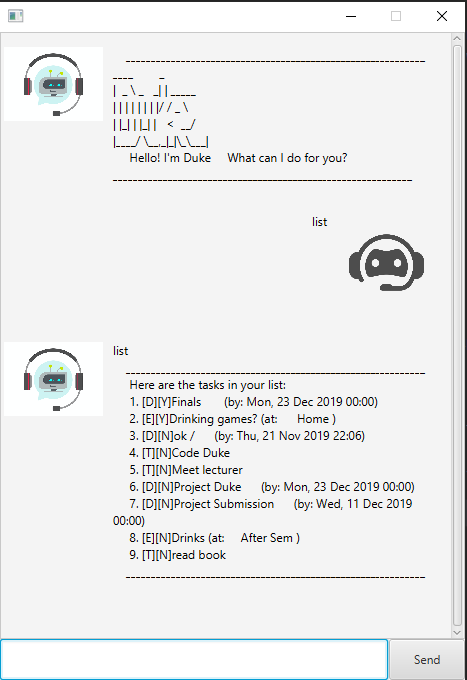
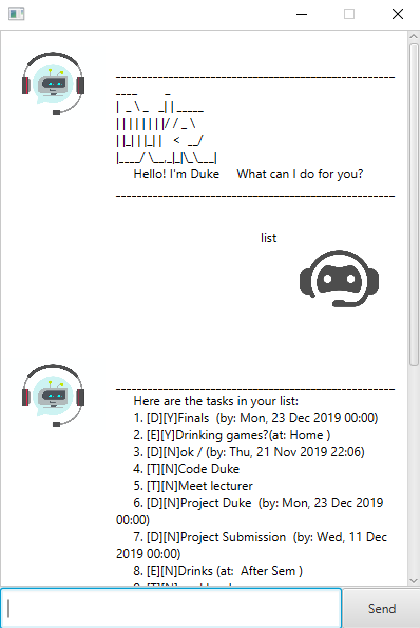
Commit new JavaFX Features

diff --git a/src/main/java/Parser/Parser.java b/src/main/java/Parser/Parser.java
@@ -107,6 +107,9 @@ public class Parser {
             return new addFindCommand(tmp[1]);
         }
         catch (ArrayIndexOutOfBoundsException e){
+            System.out.println(ui.getLine());
+            System.out.println("   Search command cannot be empty, Please enter something after the space after, find ");
+            System.out.println(ui.getLine());
             throw new DukeException("     Search command cannot be empty");
         }
     }
@@ -120,15 +123,18 @@ public class Parser {
     private static Command list(String inputs, TaskList tasklist) throws DukeException{
         try {
             if(tasklist.getSize() == 0){
+                ui.Line();
+                System.out.println("     ☹ OOPS!!! The list is empty.");
+                ui.Line();
                 throw new DukeException("     ☹ OOPS!!! The list is empty.");
             }
 
             return new addListCommand(inputs);
         }
         catch (DukeException e){
-//            ui.Line();
-//            System.out.println("     ☹ OOPS!!! The list is empty.");
-//            ui.Line();
+            ui.Line();
+            System.out.println("     ☹ OOPS!!! The list is empty.");
+            ui.Line();
             throw new DukeException("     ☹ OOPS!!! The list is empty.");
         }
     }
@@ -158,10 +164,11 @@ public class Parser {
         }
         try {
             if(inputs.substring(inputs.indexOf("delete")).length() == 6){
+//                System.out.println("delete");
                 throw new DukeEmptyExceptions("delete");
             }
             if((inputs.substring(inputs.indexOf("delete")+7, inputs.length())).trim().equals("")){
-                System.out.println("GOT HERE");
+
                 throw new DukeEmptyExceptions("delete");
             }
             int t = Integer.parseInt((inputs.substring(inputs.indexOf("delete")+7).trim()));
@@ -178,9 +185,15 @@ public class Parser {
         } catch (DukeEmptyExceptions e){
             throw new DukeEmptyExceptions("delete");
         } catch (NumberFormatException e){
+            ui.Line();
+            System.out.println("     ☹ OOPS!!! The task number must be a numerical value.");
+            ui.Line();
             throw new NumberFormatException("     ☹ OOPS!!! The task number must be a numerical value.");
 
         } catch (DukeOutOfBoundsException e){
+            ui.Line();
+            System.out.println("     ☹ OOPS!!! The task number must be within range.");
+            ui.Line();
             throw new DukeOutOfBoundsException("     ☹ OOPS!!! The task number must be within range.");
         }
     }
@@ -200,7 +213,7 @@ public class Parser {
 //                System.out.println(inputs[i]);
 //                description += " " + inputs[i];
 //            }
-        System.out.println("what is inputs : " + inputs);
+
         try {
             if(inputs.substring(inputs.indexOf("todo")).length() == 4){
                 throw new DukeEmptyExceptions("todo");
@@ -215,15 +228,20 @@ public class Parser {
 //            throw new DukeEmptyExceptions(e.getMessage());
             throw new DukeEmptyExceptions("todo");
         } catch (NumberFormatException e){
+            ui.Line();
+            System.out.println("     ☹ OOPS!!! The task number must be a numerical value.");
+            ui.Line();
 //            System.out.println("     ☹ OOPS!!! The task number must be a numerical value.");
 //            throw new NumberFormatException("     ☹ OOPS!!! The task number must be a numerical value.");
             throw new NumberFormatException("     ☹ OOPS!!! The task number must be a numerical value.");
 
         } catch (Exception e){
-            System.out.println("did i reach here all the time");
+//            System.out.println("did i reach here all the time");
 
 //            throw new DukeException("     Caught an Exception ");
-//            System.out.println("     Caught an Exception ");
+            ui.Line();
+            System.out.println("     Caught an Exception ");
+            ui.Line();
             return new invalidCommand("     Caught an Exception ");
 
         }
@@ -256,6 +274,7 @@ public class Parser {
         try {
             if(inputs.substring(inputs.indexOf("done")).length() == 4
                     || inputs.substring(inputs.indexOf("done")+5, inputs.length()).trim().equals("")){
+                System.out.println("done");
                 throw new DukeEmptyExceptions("done");
             }
             if(tmp.equals("")){
@@ -266,20 +285,30 @@ public class Parser {
 //                throw new DukeOutOfBoundsException("done");
 //            }
             if(storeTaskNo > tasklist.getSize() || storeTaskNo > t || storeTaskNo == 0 || t > tasklist.getSize()) {
+                ui.Line();
+                System.out.println("     ☹ OOPS!!!  The task number must be within range.");
                 throw new DukeOutOfBoundsException("     ☹ OOPS!!!  The task number must be within range.");
             }
             if(parsed(inputs)[1].toString()==null){
 //                throw new NumberFormatException();
+                ui.Line();
+                System.out.println("     ☹ OOPS!!! The task number must be a numerical value.");
+                ui.Line();
                 throw new NumberFormatException("     ☹ OOPS!!! The task number must be a numerical value.");
             }
             return new addDoneCommand(storeTaskNo-1);
         }
         catch (NumberFormatException e){
             ui.Line();
+            System.out.println("     ☹ OOPS!!! The task number must be a numerical value.");
+            ui.Line();
             throw new NumberFormatException("     ☹ OOPS!!! The task number must be a numerical value.");
-            //ui.Line();
+//            ui.Line();
         }
         catch (DukeOutOfBoundsException e){
+            ui.Line();
+            System.out.println("     ☹ OOPS!!! The task number must be within range.");
+            ui.Line();
             throw new DukeOutOfBoundsException("     ☹ OOPS!!! The task number must be within range.");
 
         }catch (DukeEmptyExceptions e){
@@ -308,10 +337,16 @@ public class Parser {
             return new addDeadlineCommand(des, new myMethods().dteToString(inputs));
         }
         catch (StringIndexOutOfBoundsException e){
+            ui.Line();
+            System.out.println("     Please key in Correct Syntax: [deadline] [description] [/by] [dd-mmm-yyyy HHmm]");
+            ui.Line();
             throw new DukeOutOfBoundsException("     Please key in Correct Syntax: [deadline] [description] [/by] [dd-mmm-yyyy HHmm]");
         }
         catch (InvalidDateException e){
 //            throw new InvalidDateException(e.getMessage());
+            ui.Line();
+            System.out.println("     ☹ OOPS!!! Date, Syntax Wrong, Please use : DD-MMMM-YYYY(13-Oct-2019) HHmm (1000)");
+            ui.Line();
             throw new InvalidDateException("     ☹ OOPS!!! Date, Syntax Wrong, Please use : DD-MMMM-YYYY(13-Oct-2019) HHmm (1000)");
         }
     }
@@ -343,6 +378,9 @@ public class Parser {
         }
         catch (NumberFormatException e){
 //            throw new NumberFormatException("     ☹ OOPS!!! The task number must be a numerical value." + ui.getLine());
+            ui.Line();
+            System.out.println("     ☹ OOPS!!! The task number must be a numerical value.");
+            ui.Line();
             throw new NumberFormatException("     ☹ OOPS!!! The task number must be a numerical value.");
         }
     }

diff --git a/src/main/java/Main.java b/src/main/java/Main.java
@@ -1,11 +1,18 @@
 import java.io.IOException;
+import java.io.PrintWriter;
+import java.io.StringWriter;
 import java.net.URL;
 
+import application.ErrorController;
 import javafx.application.Application;
+import javafx.application.Platform;
 import javafx.fxml.FXMLLoader;
+import javafx.scene.Parent;
 import javafx.scene.Scene;
+import javafx.scene.control.Alert;
 import javafx.scene.layout.AnchorPane;
 import javafx.scene.paint.Color;
+import javafx.stage.Modality;
 import javafx.stage.Stage;
 
 /**
@@ -16,9 +23,12 @@ public class Main extends Application {
     private Duke duke = new Duke(filename);
 
     @Override
-    public void start(Stage stage) {
+    public void start(Stage stage) throws Exception{
         try {
+
+            Thread.setDefaultUncaughtExceptionHandler(Main::showError);
             URL res = Main.class.getResource("/view/MainWindow.fxml");
+            Parent root = FXMLLoader.load(getClass().getResource("Main.fxml"));
             FXMLLoader fxmlLoader = new FXMLLoader(res);
             AnchorPane ppp = fxmlLoader.load();
             Scene scene = new Scene(ppp);
@@ -28,6 +38,41 @@ public class Main extends Application {
             stage.show();
         } catch (IOException e) {
             e.printStackTrace();
+        }
+
+
+
+    }
+
+    public static void showErrorPopup(String message){
+        Alert alert = new Alert(Alert.AlertType.ERROR);
+        alert.setTitle("Error");
+    }
+
+
+    private static void showError(Thread t, Throwable e) {
+        System.err.println("***Default exception handler***");
+        if (Platform.isFxApplicationThread()) {
+            showErrorDialog(e);
+        } else {
+            System.err.println("An unexpected error occurred in "+t);
+
+        }
+    }
+
+    private static void showErrorDialog(Throwable e) {
+        StringWriter errorMsg = new StringWriter();
+        e.printStackTrace(new PrintWriter(errorMsg));
+        Stage dialog = new Stage();
+        dialog.initModality(Modality.APPLICATION_MODAL);
+        FXMLLoader loader = new FXMLLoader(Main.class.getResource("Error.fxml"));
+        try {
+            Parent root = loader.load();
+            ((ErrorController)loader.getController()).setErrorText(errorMsg.toString());
+            dialog.setScene(new Scene(root, 250, 400));
+            dialog.show();
+        } catch (IOException exc) {
+            exc.printStackTrace();
         }
     }
 }

diff --git a/src/main/java/Ui/Ui.java b/src/main/java/Ui/Ui.java
@@ -7,9 +7,10 @@ import java.io.PrintStream;
 import java.io.UnsupportedEncodingException;
 import java.util.Scanner;
 import Parser.*;
+import javafx.application.Platform;
 
 public class Ui {
-    private static final String line = "    ____________________________________________________________";
+    private static final String line = "    _____________________________________________________";
     /**
      * Prints welcome message of duke.
      * */
@@ -103,7 +104,7 @@ public class Ui {
      * Show goodbye message
      */
     public void showGoodBye(){
-        System.out.println(userInput);
+//        System.out.println(userInput);
         printLine();
         System.out.println("     Bye. Hope to see you again soon!");
         printLine();
@@ -111,6 +112,7 @@ public class Ui {
         msg += line + "\n";
         msg += "     Bye. Hope to see you again soon!\n";
         msg += line + "\n";
+//        Platform.exit();
 //        return msg;
     }
 

diff --git a/src/main/java/application/Controller.java b/src/main/java/application/Controller.java
@@ -1,0 +1,35 @@
+package application;
+
+
+import javafx.beans.binding.Bindings;
+import javafx.beans.property.IntegerProperty;
+import javafx.beans.property.SimpleIntegerProperty;
+import javafx.fxml.FXML;
+import javafx.scene.control.Label;
+
+public class Controller {
+    private final IntegerProperty counter = new SimpleIntegerProperty(1);
+
+    @FXML
+    private Label label ;
+
+    public void initialize() throws Exception {
+        label.textProperty().bind(Bindings.format("Count: %s", counter));
+
+        // uncomment the next line to demo exceptions in the start() method:
+//         throw new Exception("Initializer exception");
+    }
+
+    @FXML
+    private void safeHandler() {
+        counter.set(counter.get()+1);
+    }
+
+    @FXML
+    private void riskyHandler() throws Exception {
+        if (Math.random() < 0.5) {
+            throw new RuntimeException("An unknown error occurred");
+        }
+        safeHandler();
+    }
+}

diff --git a/src/main/java/Commands/addByeCommand.java b/src/main/java/Commands/addByeCommand.java
@@ -2,6 +2,9 @@ package Commands;
 import Ui.*;
 import Storage.*;
 import TaskList.*;
+import javafx.animation.PauseTransition;
+import javafx.application.Platform;
+import javafx.util.Duration;
 
 public class addByeCommand extends Command{
 
@@ -12,8 +15,11 @@ public class addByeCommand extends Command{
     }
 
     @Override
-    public String execute(TaskList taskList, Ui ui, Storage storage){
+    public String execute(TaskList taskList, Ui ui, Storage storage) throws InterruptedException {
         ui.showGoodBye();
-        return null;
+        PauseTransition delay = new PauseTransition(Duration.seconds(999999999));
+        delay.play();
+        Platform.exit();
+        return "";
     }
 }

diff --git a/src/main/java/application/ErrorController.java b/src/main/java/application/ErrorController.java
@@ -1,0 +1,18 @@
+package application;
+
+import javafx.fxml.FXML;
+import javafx.scene.control.Label;
+
+public class ErrorController {
+    @FXML
+    private Label errorMessage ;
+
+    public void setErrorText(String text) {
+        errorMessage.setText(text);
+    }
+
+    @FXML
+    private void close() {
+        errorMessage.getScene().getWindow().hide();
+    }
+}

diff --git a/src/main/java/Commands/Command.java b/src/main/java/Commands/Command.java
@@ -57,5 +57,5 @@ public abstract class Command {
         return this.exit;
     }
 
-    public abstract String execute(TaskList tasklist, Ui ui, Storage storage) throws UnsupportedEncodingException;
+    public abstract String execute(TaskList tasklist, Ui ui, Storage storage) throws UnsupportedEncodingException, InterruptedException;
 }

diff --git a/docs/README.md b/docs/README.md
@@ -1,6 +1,17 @@
 # Duke
 
-**Duke** is a personal assistant chatbot for managing tasks, optimised for use via Command Line Interface (CLI), with a Graphical User Interface (GUI) output.
+
+**Duke** 
+A friendly and simple personal assistant chatbot for managing tasks
+for use via Command Line Interface (CLI), with a Graphical User Interface (GUI) output.
+Hello from
+____        _
+|  _ \ _   _| | _____
+| | | | | | | |/ / _ \
+| |_| | |_| |   <  __/
+|____/ \__,_|_|\_\___|
+   ```
+
 
 Useful links:
 * [User Guide](UserGuide.md)
